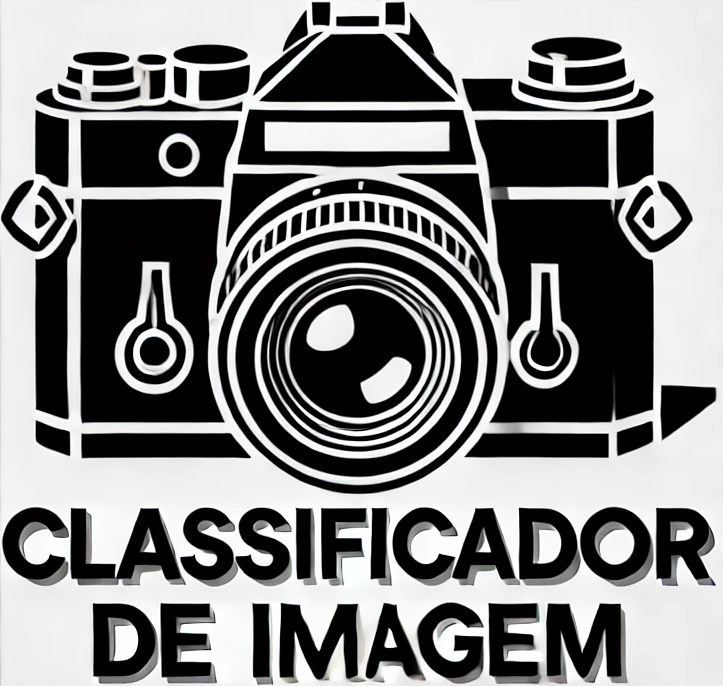
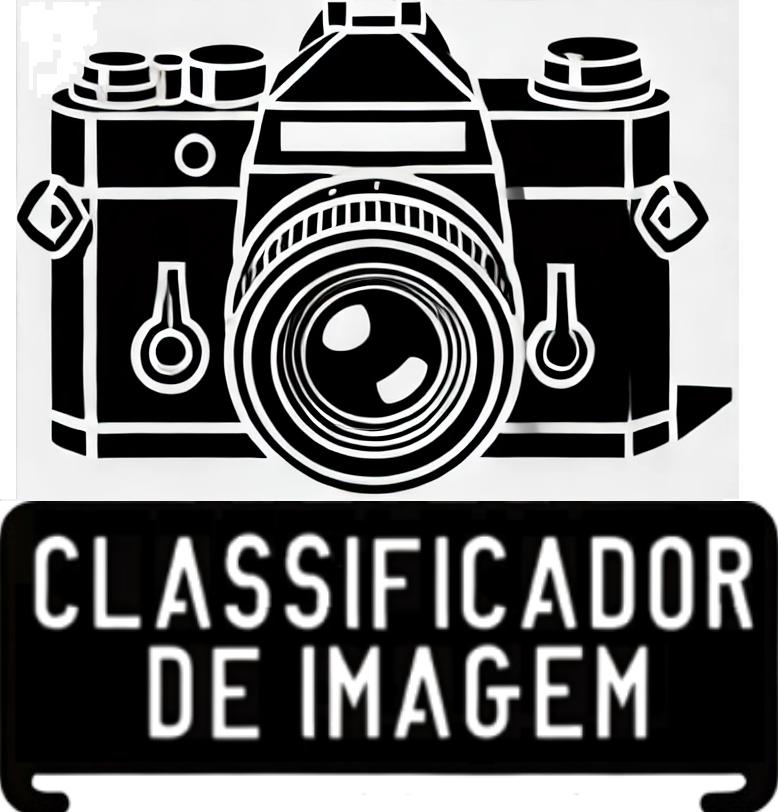
.

diff --git a/src/components/sinais/sinais.css b/src/components/sinais/sinais.css
@@ -61,8 +61,9 @@
 .img-modelagem {
     width: 300px;
     height: auto;
-    margin: 0 auto;
+    margin: auto;
     display: block;
+    margin-bottom: 20px;
 }
 
 body {
@@ -138,8 +139,8 @@ button {
 }
 
 .circuit-option img {
-    width: 80%;
-    height: 90%;
+    width: 50%;
+    height: 100%;
     object-fit: fit;
     margin: 10px 0px 10px 0px;
     border-radius: 10px;

diff --git a/src/components/sinais/sinais.html b/src/components/sinais/sinais.html
@@ -14,7 +14,7 @@
         <body>
             <div class="container">
                 <header>
-                    <img src="images/classificador-invert4.png" alt="img-header" class="img-modelagem" />
+                    <img src="images/classificador-final-invert.png" alt="img-header" class="img-modelagem" />
                 </header>
 
                 <br /><br />
